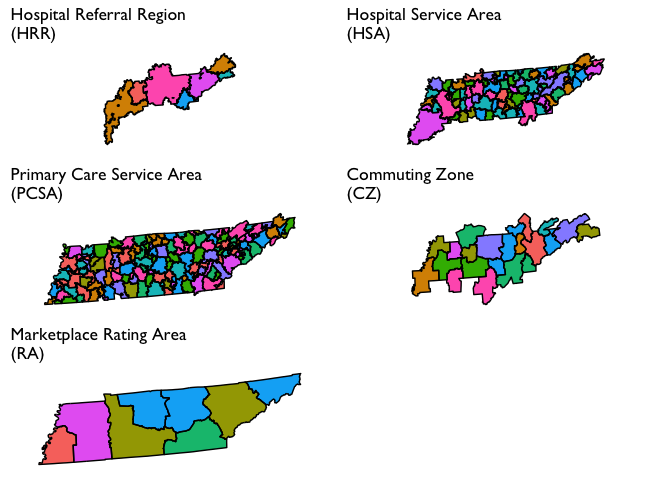
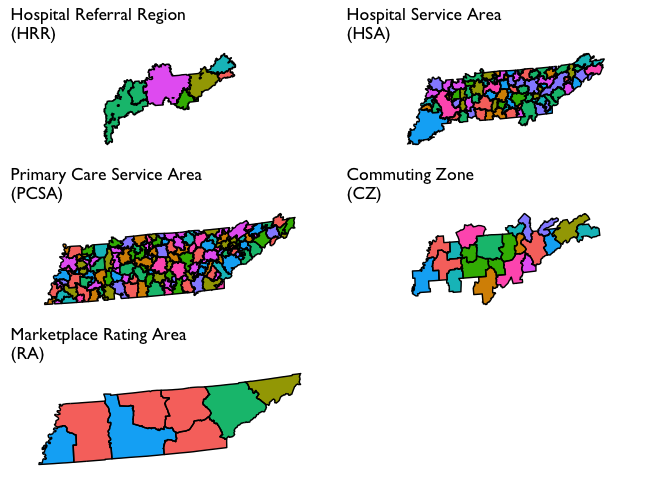
updates to README text.

diff --git a/README.md b/README.md
@@ -1,14 +1,31 @@
 
 # Defining Geographic Markets for Health Care Services
 
-The objective of this repository and README is to lay out some thoughts,
-analytics, and data for defining geographic markets for health care
-services in the U.S.
+The objective of this repository is to lay out some thoughts, analytics,
+and data for defining geographic markets for health care services in the
+U.S.
+
+Geographic market definitions are important for a wide variety of
+regulatory and research uses. Therefore, for any given measure (e.g., a
+Hirschman-Herfindahl index of market concentration) it is important to
+know whether and how that measure varies by alternative market
+definitions. Moreover, commonly used geographies, such as hospital
+referral regions (HRRs), commuting zones (CZs), metropolitan statistical
+areas (MSAs), etc. have both strengths and weaknesses. Whether the
+strengths outweigh the weaknesses will be defined by the specific
+question at hand. As just one example, the latest commuting zone data
+are derived from commuting patterns ascertained in the 2000 Census; HRRs
+and HSAs are defined by patient hospital flows in 1992-1993. Obviously,
+flows of both patients and commuters have changed substantially in some
+areas in the last 20-30 years–whether these changes are material to
+defining geographic boundaries of contemporary health care markets
+remains an open question.
 
 # Mapping Geographic Markets
 
 The maps below show various geographic market definitions that appear in
-Tennessee.
+Tennessee. Note that the colors in each polygon are arbitrary and only
+indended to further highlight boundaries across geographies.
 
 ![](README_files/figure-gfm/unnamed-chunk-1-1.png)<!-- -->
 
